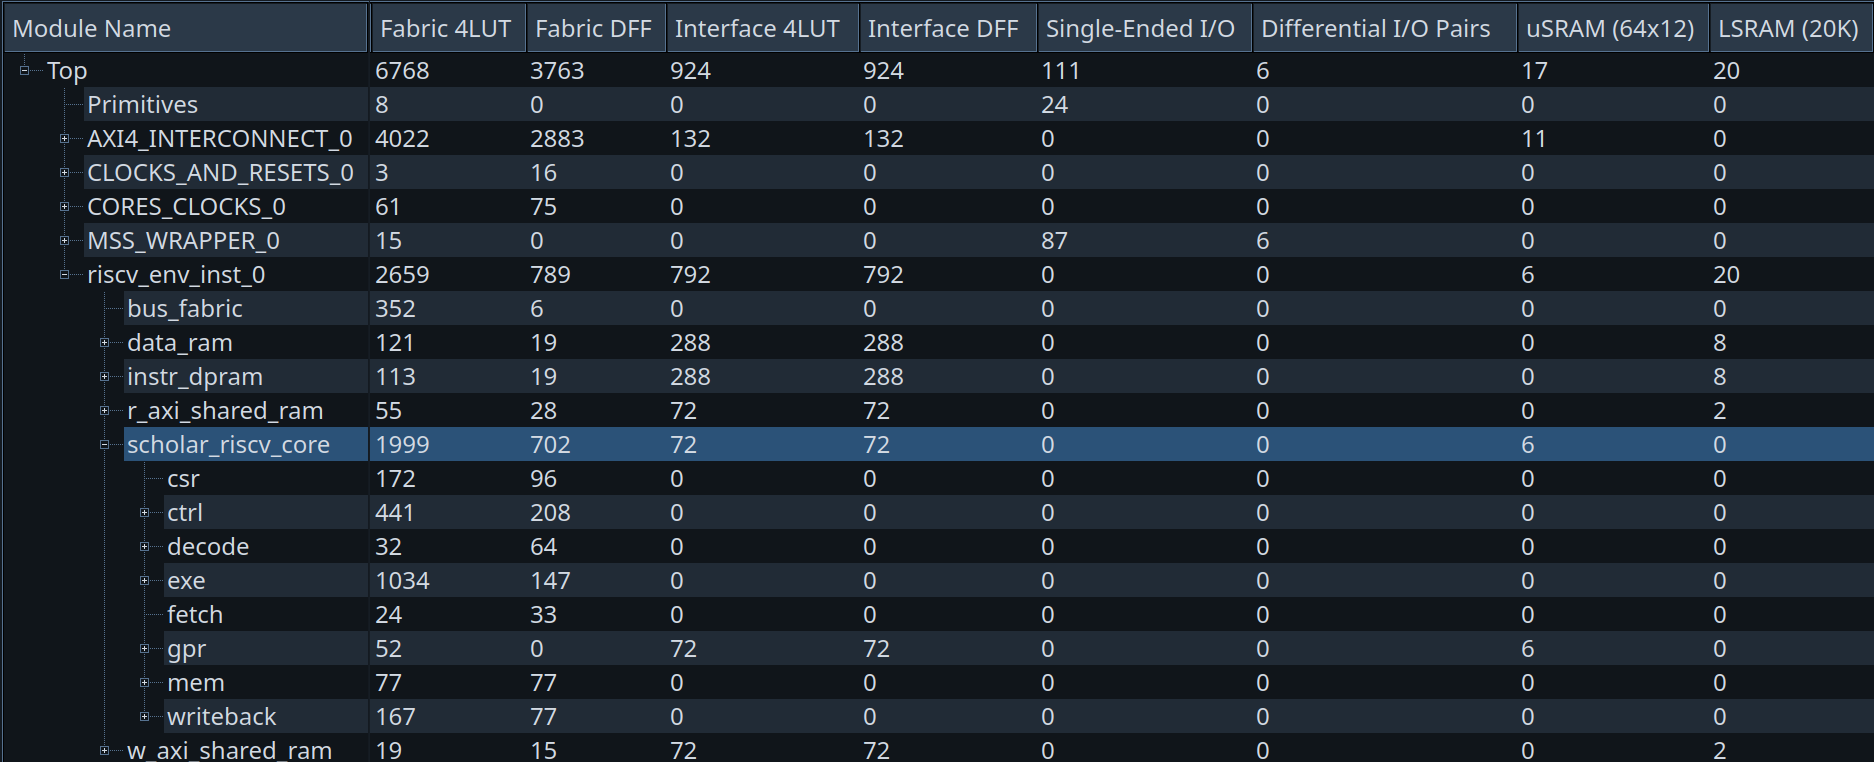
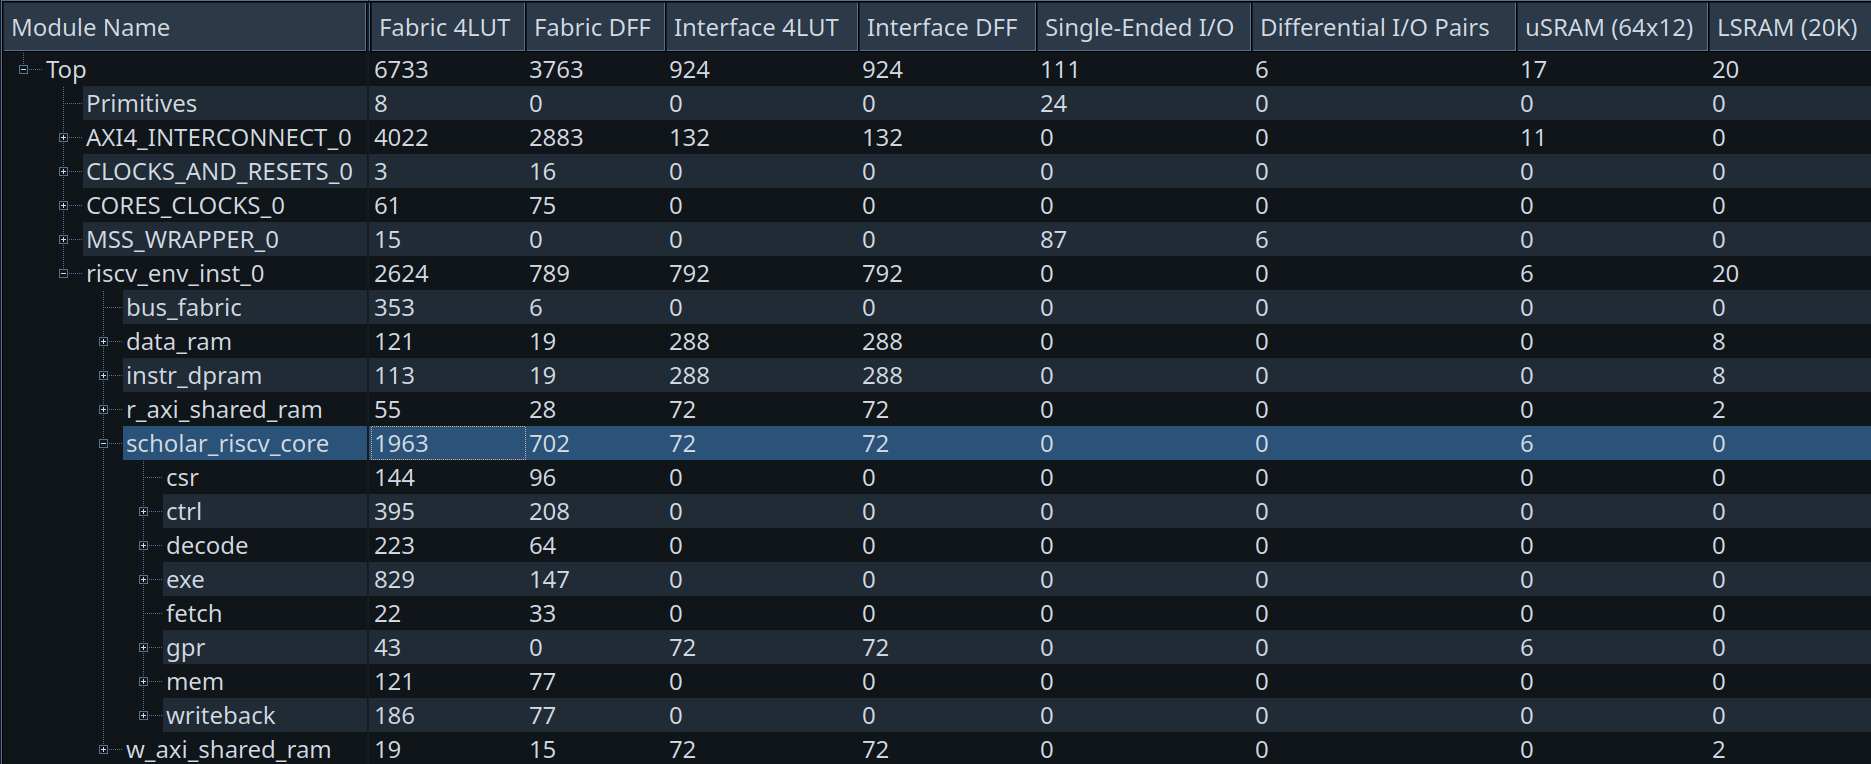
feat: Add non-perfect memory support in the controller
The control hazard in the controller may have an invalid behavior if a control hazard is detected but Mem is not ready to register the uop in Exe.

The fix includes checking if Mem is ready before triggering the core softreset.

Also add the usram_64.tcl component to support the 64-bit version of the SCHOLAR RISC-V on the Microchip discovery kit board

diff --git a/README.md b/README.md
@@ -22,7 +22,7 @@ A **pipelined** microarchitecture means that each instruction is completed over 
 > For readability, clock and reset signals are omitted.<br>
 > A `^` symbol at the bottom of a block indicates a sequential (clocked) element.<br>
 > The Control and Status Registers (CSRs) are not displayed in this diagram but work like the General Purpose Registers (GPRs).<br>
-> White signals represent bundles (i.e. set of signals) used to pass control and data signals from a stage to another.<br>
+> White signals represent bundles (i.e. set of signals) used to pass control and data signals from a stage to another.
 
 <br>
 
@@ -81,20 +81,20 @@ However, part of this repository (CycleMark) is derived from the [CoreMark repos
 ## Supported RISC-V Instructions 
 
 This section lists all base integer instructions implemented in the **SCHOLAR RISC-V** processor, including both **RV32I** and **RV64I** sets.<br>
-Each instruction is presented with its mnemonic, format, description, and pseudocode operation.<br>
+Each instruction is presented with its mnemonic, format, description, and pseudocode operation.
 
 These instructions form the foundation of the processor’s execution capabilities — covering arithmetic, logic, control flow, and memory operations.<br>
-Together, they define the minimum working instruction set that allows a program to execute entirely on the SCHOLAR processor.<br>
+Together, they define the minimum working instruction set that allows a program to execute entirely on the SCHOLAR processor.
 
 > 💡 Tip:
 >
-> You can think of R-type instructions as operations between two registers, I-type instructions as operations involving immediates, and S/B/U/J-types as handling memory access or control flow.<br>
+> You can think of R-type instructions as operations between two registers, I-type instructions as operations involving immediates, and S/B/U/J-types as handling memory access or control flow.
 
 > 🧠 Note:
 >
 > Arithmetic instructions in **RV32I** always operate on 32-bit values.<br>
 > When working in **RV64I**, the same logic applies — but operands and results are sign-extended to 64 bits.<br>
-> Additional instructions introduced by **RV64I** specifically handle 32-bit operations within a 64-bit architecture.<br>
+> Additional instructions introduced by **RV64I** specifically handle 32-bit operations within a 64-bit architecture.
 
 <br>
 
@@ -103,7 +103,7 @@ Together, they define the minimum working instruction set that allows a program 
 The RV32I instruction set includes 32-bit integer operations — the core of every RISC-V implementation.<br>
 These instructions operate on 32-bit registers and memory addresses.
 
-The following tables group instructions by category for easier understanding.<br>
+The following tables group instructions by category for easier understanding.
 
 <br>
 
@@ -114,7 +114,6 @@ The following tables group instructions by category for easier understanding.<br
 | `LUI`        | U-type     | Load upper immediate      | `rd ← imm << 12`        |
 | `AUIPC`      | U-type     | Add upper immediate to PC | `rd ← PC + (imm << 12)` |
 
-<br>
 <br>
 
 #### Arithmetic and Logic (Register)
@@ -133,7 +132,6 @@ The following tables group instructions by category for easier understanding.<br
 | `AND`        | R-type     | Bitwise AND                 | `rd ← rs1 ∧ rs2`            |
 
 <br>
-<br>
 
 #### Arithmetic and Logic (Immediate)
 
@@ -150,7 +148,6 @@ The following tables group instructions by category for easier understanding.<br
 | `SRAI`       | I-type     | Shift right arithmetic immediate   | `rd ← rs1 >>> shamt`       |
 
 <br>
-<br>
 
 #### Memory Access (Load and Store)
 
@@ -166,7 +163,6 @@ The following tables group instructions by category for easier understanding.<br
 | `SW`         | S-type     | Store word                     | `M[rs1 + imm] ← rs2[31:0]`             |
 
 <br>
-<br>
 
 #### Control Transfer (Branch and Jump)
 
@@ -181,7 +177,6 @@ The following tables group instructions by category for easier understanding.<br
 | `BLTU`       | B-type     | Branch if less than (unsigned)      | `if (rs1 < rs2) PC ← PC + offset`    |
 | `BGEU`       | B-type     | Branch if greater/equal (unsigned)  | `if (rs1 ≥ rs2) PC ← PC + offset`    |
 
-<br>
 <br>
 
 #### Miscellaneous and System Instructions (not implemented)
@@ -200,7 +195,7 @@ The following tables group instructions by category for easier understanding.<br
 
 The **RV64I** extension adds 64-bit register and memory operations to the base ISA.<br>
 All previous 32-bit instructions remain valid, but their results are now zero- or sign-extended to 64 bits.<br>
-The new instructions introduced by **RV64I** enable explicit 32-bit arithmetic and logical operations, allowing software to efficiently manipulate 32-bit data within a 64-bit processing environment.<br>
+The new instructions introduced by **RV64I** enable explicit 32-bit arithmetic and logical operations, allowing software to efficiently manipulate 32-bit data within a 64-bit processing environment.
 
 <br>
 
@@ -215,7 +210,6 @@ The new instructions introduced by **RV64I** enable explicit 32-bit arithmetic a
 | `SRAW`       | R-type     | Arithmetic shift right (word)        | `rd ← sign_extend(rs1[31:0] >>> (rs2 & 0x1F))` |
 
 <br>
-<br>
 
 #### Arithmetic and Logic (Immediate)
 
@@ -226,7 +220,6 @@ The new instructions introduced by **RV64I** enable explicit 32-bit arithmetic a
 | `SRLIW`      | I-type     | Logical shift right immediate    | `rd ← sign_extend(rs1[31:0] >> shamt)`  |
 | `SRAIW`      | I-type     | Arithmetic shift right immediate | `rd ← sign_extend(rs1[31:0] >>> shamt)` |
 
-<br>
 <br>
 
 #### Memory Access (Load and Store)
@@ -250,10 +243,10 @@ The new instructions introduced by **RV64I** enable explicit 32-bit arithmetic a
 ## Instruction Formats
 
 Every RISC-V instruction follows one of a few standardized formats that define how its bits are organized.<br>
-Understanding these formats is key to interpreting instructions and designing the **decode** stage of a processor.<br>
+Understanding these formats is key to interpreting instructions and designing the **decode** stage of a processor.
 
 Each format divides the 32-bit instruction word into fields that identify operands, immediates, and operation types.<br>
-Depending on the instruction type, some fields may be reused or interpreted differently.<br>
+Depending on the instruction type, some fields may be reused or interpreted differently.
 
 | **Field**          | **Purpose**                                                                 |
 | ------------------ | --------------------------------------------------------------------------- |
@@ -267,7 +260,7 @@ Depending on the instruction type, some fields may be reused or interpreted diff
 
 > 🧠 Note:
 >
-> RISC-V uses fixed 32-bit instruction length (for the base ISA), which simplifies decoding logic — every instruction is exactly one word.<br>
+> RISC-V uses fixed 32-bit instruction length (for the base ISA), which simplifies decoding logic — every instruction is exactly one word.
 
 <br>
 
@@ -278,7 +271,7 @@ Depending on the instruction type, some fields may be reused or interpreted diff
 | imm[31:12] | rd   | opcode |
 
 Used for large immediates. The immediate value is placed in the upper 20 bits of the destination register.<br>
-Examples: **LUI**, **AUIPC**.<br>
+Examples: **LUI**, **AUIPC**.
 
 <br>
 <br>
@@ -290,7 +283,7 @@ Examples: **LUI**, **AUIPC**.<br>
 | funct7 | rs2   | rs1   | funct3 | rd   | opcode |
 
 Used for arithmetic or logical operations that involve two source registers and one destination register.<br>
-Examples: **ADD**, **SUB**, **SLL**, **AND**, **OR**, **XOR**, **SLT**, **SLTU**.<br>
+Examples: **ADD**, **SUB**, **SLL**, **AND**, **OR**, **XOR**, **SLT**, **SLTU**.
 
 <br>
 <br>
@@ -303,7 +296,7 @@ Examples: **ADD**, **SUB**, **SLL**, **AND**, **OR**, **XOR**, **SLT**, **SLTU**
 
 Used for operations with one source register and a 12-bit immediate value.<br>
 Includes arithmetic immediates, loads, and control-flow instructions.<br>
-Examples: **ADDI**, **ANDI**, **ORI**, **LW**, **JALR**.<br>
+Examples: **ADDI**, **ANDI**, **ORI**, **LW**, **JALR**.
 
 <br>
 <br>
@@ -327,7 +320,7 @@ Examples: **SB**, **SH**, **SW**, **SD**.
 | imm[12] | imm[10:5] | rs2   | rs1   | funct3 | imm[4] | imm[3:1] | imm[11] | opcode |
 
 Used for conditional branches — the target address is computed by adding the immediate offset to the current PC.<br>
-Examples: **BEQ**, **BNE**, **BLT**, **BGE**, **BLTU**, **BGEU**.<br>
+Examples: **BEQ**, **BNE**, **BLT**, **BGE**, **BLTU**, **BGEU**.
 
 <br>
 <br>
@@ -338,10 +331,8 @@ Examples: **BEQ**, **BNE**, **BLT**, **BGE**, **BLTU**, **BGEU**.<br>
 | ------- | --------- | ------- | ---------- | ---- | ------ |
 | imm[20] | imm[10:1] | imm[11] | imm[19:12] | rd   | opcode |
 
-
-
 Used for unconditional jumps. The destination register stores the return address (PC + 4).<br>
-Examples: **JAL**.<br>
+Examples: **JAL**.
 
 <br>
 
@@ -363,8 +354,8 @@ Below is a summary of synthesis results on a PolarFire MPFS095T FPGA:
 
 | **Architecture**              | **Features**                                    | **CycleMark/MHz** | **FPGA Resources & Performance (PolarFire MPFS095T)**                          |
 | ----------------------------- | ----------------------------------------------- | ----------------- | ------------------------------------------------------------------------------ |
-| **RV32I + `CSR*` (Zicntr)** | single-issue pipelined RISC-V processor | 0.55             | LEs: 1999 (702 FFs)<br>Fmax: 120 MHz<br>uSRAM: 6<br>LSRAM: 0<br>Math blocks: 0 |
-| **RV64I + `CSR*` (Zicntr)** | single-issue pipelined RISC-V processor (64-bit datapath) | 0.45              | LEs: 4068 (1247 FFs)<br>Fmax: 106 MHz<br>uSRAM: 12<br>LSRAM: 0<br>Math blocks: 0 |
+| **RV32I + `CSR*` (Zicntr)** | single-issue pipelined RISC-V processor | 0.55             | LEs: 1963 (702 FFs)<br>Fmax: 127 MHz<br>uSRAM: 6<br>LSRAM: 0<br>Math blocks: 0 |
+| **RV64I + `CSR*` (Zicntr)** | single-issue pipelined RISC-V processor (64-bit datapath) | 0.45              | LEs: 4003 (1247 FFs)<br>Fmax: 101 MHz<br>uSRAM: 12<br>LSRAM: 0<br>Math blocks: 0 |
 
 > 📝
 >
@@ -383,13 +374,13 @@ Below is a summary of synthesis results on a PolarFire MPFS095T FPGA:
 ## Pedagogical value
 
 This implementation intentionally prioritizes transparency over optimization.<br>
-The goal is to explain how a pipeline works by implementing a classical pipeline microarchitecture.<br>
+The goal is to explain how a pipeline works by implementing a classical pipeline microarchitecture.
 
 In addition to improving clock frequency, a pipelined core also introduces drawbacks—most notably **data hazards** and **control hazards** (e.g., jumps/branches).<br>
 These drawbacks can be mitigated with techniques such as **bypassing/forwarding** and **branch prediction**, but they are intentionally out of scope for the current design.
 
 This makes the trade-offs of pipelining clearly visible and keeps the microarchitecture easier to understand for students.<br>
-Mitigations will be introduced in later branches to preserve the project’s pedagogical progression.<br>
+Mitigations will be introduced in later branches to preserve the project’s pedagogical progression.
 
 <br>
 
@@ -424,7 +415,7 @@ There are several ways to split the logic into stages. In this design, the class
 
 <br>
 
-This choice highlights the main pros and cons of a **pipelined** architecture while keeping the design close to the **Single-Cycle** implementation (i.e., minimizing structural changes).<br>
+This choice highlights the main pros and cons of a **pipelined** architecture while keeping the design close to the **Single-Cycle** implementation (i.e., minimizing structural changes).
 
 <br>
 <br>
@@ -531,7 +522,7 @@ lw  x3, 0(x2)       # produces x3
 sw  x3, 0(x5)       # consumes x3 as store data (RAW)
 ```
 
-Even though the store does not write a destination register, it still needs the value of x3 to write it to memory.<br>
+Even though the store does not write a destination register, it still needs the value of x3 to write it to memory.
 
 <br>
 
@@ -595,7 +586,7 @@ To prevent executing `b` and `c`, the microarchitecture implements a pipeline fl
 
 This mechanism clears the front of the pipeline and restarts fetching from the computed PC.<br>
 Flush sequence:
-  - Cycle 3: `a` is executed (**Exe**) and the jump target PC is computed (in the **controller** using the ALU output). Meanwhile, `b` is decoded and `c` is fetched **and `softresetn` is asserted (`softresetn` = 0) for one cycle**.
+  - Cycle 3: `a` is executed (**Exe**) and the jump target PC is computed (in the **controller** using the ALU output). Meanwhile, `b` is decoded and `c` is fetched **and `softresetn` is asserted (`softresetn` = `0`) for one cycle**.
   - Cycle 4: **Fetch**, **Decode** and **Exe** are synchronously flushed by `softresetn`, while the new PC is computed from the ALU output and provided to **Fetch**.<br>
   During the flush, memory requests are not blocked: the instruction memory is still addressed with the correct PC. Only the stage valid signals are cleared so wrong-path instructions are discarded.<br>
   In parallel, `a` continues to **Mem**.
@@ -773,7 +764,7 @@ All immediates are properly sign-extended (or zero-extended when required).
 The *exe_ctrl_gen* block determines which ALU operation will be executed in **Exe**.
 It uses `opcode`, `funct3`, and `funct7` to generate a compact 5-bit control signal (`exe_ctrl`) that directly selects the operation inside **Exe** — such as addition, subtraction, comparison, or logical shift.<br>
 
-This design follows the RISC-V specification exactly, allowing new instructions to be added by simply extending the control table.<br>
+This design follows the RISC-V specification exactly, allowing new instructions to be added by simply extending the control table.
 
 <br>
 <br>
@@ -784,7 +775,7 @@ This block defines how **Mem** and **Writeback** should interact with memory:
   - It identifies whether the instruction is a load, store, or no-memory operation.
   - It encodes the access width (byte, halfword, word, or doubleword) and the sign-extension rule.
 
-The generated 5-bit `mem_ctrl` signal is used by **Mem** and **Writeback** to manage data memory reads and writes deterministically.<br>
+The generated 5-bit `mem_ctrl` signal is used by **Mem** and **Writeback** to manage data memory reads and writes deterministically.
 
 <br>
 <br>
@@ -809,7 +800,7 @@ Depending on the control flow instruction:
   - Jump (`PcSet` or `PcAdd`) → PC replaced with or added to an offset.
   - Conditional branch (`PcCond`) → next PC depends on **exe** comparison results.
 
-This mechanism provides full support for jumps, calls, and branches.<br>
+This mechanism provides full support for jumps, calls, and branches.
 
 <br>
 <br>
@@ -830,7 +821,6 @@ All decoded information (PC, operands and control fields) is provided to **Exe**
 It is almost identical to the **single-cycle** version, with two pipeline-specific additions:
   - *if_id*, which registers the incoming instruction/PC bundle and breaks the combinational path from **Fetch** to **Decode**.
   - *ctrl*, which implements the stage handshake and interlock, allowing **Decode** to stall on RAW hazards (dirty operands) or when **Exe** applies back-pressure.
-
 
 <br>
 
@@ -1065,7 +1055,7 @@ Internally, it contains two main functional parts:
 
 ### mem_wb
 
-The *Mem–Writeback* pipeline register breaks the combinational path between **Mem** and **Writeback** by capturing the `mem2wb` bundle into `mem2wb_q`.<br>
+The *Mem–Writeback* pipeline register breaks the combinational path between **Mem** and **Writeback** by capturing the `mem2wb` bundle into `mem2wb_q`.
 
 This stage is always ready (there is no back-pressure from the register files in this design). It behaves as follows:
   - If `mem_valid` == `1`:
@@ -1224,6 +1214,9 @@ Conceptually:
 
 This “soft reset” clears the front-end stages so the next fetch restarts from the correct PC.
 
+The flush is asserted only when **Mem** is ready (`mem_ready_i`).<br>
+If the memory stage applies back-pressure, the control-flow instruction cannot leave **Exe** yet. Flushing too early would discard the branch/jump before it is allowed to progress, potentially losing its architectural effect and corrupting program flow.
+
 <br>
 <br>
 
@@ -1279,7 +1272,7 @@ Its execution flow can be summarized as follows:
 #### Cycle 1
 
 When reset is released (**@1**), the pipeline stages become ready and **Fetch** can start requesting instructions.<br>
-**Fetch** asserts the instruction memory read enable `i_m_rden` (**@2**) at the reset PC (0x8000_0000), requesting the first instruction (**auipc**).<br>
+**Fetch** asserts the instruction memory read enable `i_m_rden` (**@2**) at the reset PC (0x8000_0000), requesting the first instruction (**auipc**).
 
 The instruction memory acknowledges the request with `i_m_hit` (**@3**). The instruction is considered valid on the next cycle, once `fetch_valid` asserts.`i_m_hit` is registered by the *mem_ack* block to build `fetch_valid` on the next rising edge of the clock to stay synchronized with instruction validity.
 
@@ -1337,9 +1330,9 @@ No architectural progress can be made by the stalled instruction during this cyc
 
 #### Cycle 6
 
-**auipc** reaches **Writeback** and requests a register write to `x2` (**@10**). The written value is visible on the **Writeback** bus (`rd` = `2`, `gpr_wdata` = `0x80014000`).<br>
+**auipc** reaches **Writeback** and requests a register write to `x2` (**@10**). The written value is visible on the **Writeback** bus (`rd` = `2`, `gpr_wdata` = `0x80014000`).
 
-This **Writeback** event is also observed by the **controller**, which will decrement the dirty counter of `x2` at the next rising edge (**@11**).<br>
+This **Writeback** event is also observed by the **controller**, which will decrement the dirty counter of `x2` at the next rising edge (**@11**).
 
 <br>
 
@@ -1397,6 +1390,8 @@ On the next rising edge, instructions naturally advance one stage:
 
 Now **jal** is in **Exe**, meaning the redirection information becomes available to the controller through the `exe2pc` bundle and is used to detect the control hazard (`softresetn` **@4**).
 
+In our design, the memory is supposed to be perfect. `mem_valid_i` value is `1`.
+
 <br>
 
 #### Cycle 10
@@ -1431,7 +1426,7 @@ This trace illustrates the control-hazard strategy of the core: whenever a jump 
 
 ### Execution Flow - Conclusion
 
-This short boot sequence highlights the two main drawbacks introduced by a basic pipelined microarchitecture and the simple mechanisms used in **SCHOLAR RISC-V** to handle them.<br>
+This short boot sequence highlights the two main drawbacks introduced by a basic pipelined microarchitecture and the simple mechanisms used in **SCHOLAR RISC-V** to handle them.
 
 - **Data hazards (RAW)** are handled by interlocking **Decode** using a small “dirty” scoreboard: dependent instructions are stalled until the producer commits its result in **Writeback**.
 - **Control hazards** are handled by flushing the front-end when a jump or taken branch is resolved in **Exe**, then restarting fetch from the redirected PC.
@@ -1461,8 +1456,8 @@ As for the **single-cycle** version, the performance of the **SCHOLAR RISC-V** p
 
 | **Architecture**                  | **CycleMark/MHz** | **FPGA Resources & Performance (PolarFire MPFS095T)**                          |
 |----------------------------------|------------------:|--------------------------------------------------------------------------------|
-| **RV32I + `CSR*` (Zicntr)**      | 0.55              | LEs: 1999 (702 FFs)<br>Fmax: 120 MHz<br>uSRAM: 6<br>LSRAM: 0<br>Math blocks: 0 |
-| **RV64I + `mcycle` (Zicntr)**    | 0.45              | LEs: 4068 (1247 FFs)<br>Fmax: 106 MHz<br>uSRAM: 12<br>LSRAM: 0<br>Math blocks: 0 |
+| **RV32I + `CSR*` (Zicntr)**      | 0.55              | LEs: 1963 (702 FFs)<br>Fmax: 127 MHz<br>uSRAM: 6<br>LSRAM: 0<br>Math blocks: 0 |
+| **RV64I + `mcycle` (Zicntr)**    | 0.45              | LEs: 4003 (1247 FFs)<br>Fmax: 101 MHz<br>uSRAM: 12<br>LSRAM: 0<br>Math blocks: 0 |
 
 > 📝 `CSR*`: `mcycle`, `mhpmcounter3` and `mhpmcounter4`.
 
@@ -1472,7 +1467,7 @@ As for the **single-cycle** version, the performance of the **SCHOLAR RISC-V** p
 ### CycleMark/MHz
 
 The CycleMark/MHz score represents the average number of benchmark iterations achieved per MHz of clock frequency.  
-It can be seen as a practical indicator of the achieved **IPC** (instructions per cycle) under the benchmark workload.<br>
+It can be seen as a practical indicator of the achieved **IPC** (instructions per cycle) under the benchmark workload.
 
 The **RV32I** pipelined core achieves **0.55** CycleMark/MHz (versus **1.24** for the **single-cycle** version), which corresponds to a significant performance drop (**~56%**) in terms of “useful work per cycle”.
 
@@ -1493,7 +1488,7 @@ Comparison data (CoreMark scores, which CycleMark is derived from) can be found 
 
 ### Maximum Frequency
 
-In return to a lower CycleMark/MHz score, this microarchitecture provides a higher frequency (**120 MHz**) than the **single-cycle** version (**69 MHz**), allowing more cycles per second.
+In return to a lower CycleMark/MHz score, this microarchitecture provides a higher frequency (**127 MHz**) than the **single-cycle** version (**69 MHz**), allowing more cycles per second.
 
 The current critical path is:  
 `data memory → Writeback → GPRs`  
@@ -1516,8 +1511,8 @@ As shown earlier, the current implementation has an IPC below `1` due to hazard 
 ### Resource Utilization and Cost Insights
 
 From a resource perspective, the processor appears more compact than the **single-cycle** version:
-  - 1999 logic elements (702 as flip-flops) for **RV32I**.
-  - 4068 logic elements (1247 as flip-flops) for **RV64I**.
+  - 1963 logic elements (702 as flip-flops) for **RV32I**.
+  - 4003 logic elements (1247 as flip-flops) for **RV64I**.
   - A few uSRAM blocks for the GPRs.
   - No hardware multipliers or DSP blocks.
 
@@ -1540,7 +1535,7 @@ The remaining flip-flops are mostly used to register bundles between pipeline st
 The **pipelined** version of the **SCHOLAR RISC-V** processor focuses on improving clock frequency.  
 Even though this goal is achieved (**~74%** improvement), overall benchmark throughput decreases:
 
-- Pipeline: `120 MHz × 0.55 ≈ 66 CycleMark/s`
+- Pipeline: `127 MHz × 0.55 ≈ 70 CycleMark/s`
 - Single-cycle: `69 MHz × 1.24 ≈ 86 CycleMark/s`
 
 This performance loss is mainly caused by the drawbacks of this simple pipeline implementation: **RAW data hazards** (stalls) and **control hazards** (flushes).
@@ -1548,7 +1543,6 @@ This performance loss is mainly caused by the drawbacks of this simple pipeline 
 This does not mean pipelining is a wrong optimization strategy — it is simply incomplete on its own.<br>
 The next iteration of this project will focus on mitigating data hazards (e.g., forwarding/bypassing), and studying the implementation cost, benefits, and trade-offs.<br>
 The primary goal will be to reduce the number of stall cycles, increase CycleMark/MHz, and therefore improve the overall CycleMark/s of the pipelined core.
-
 
 <br>
 
